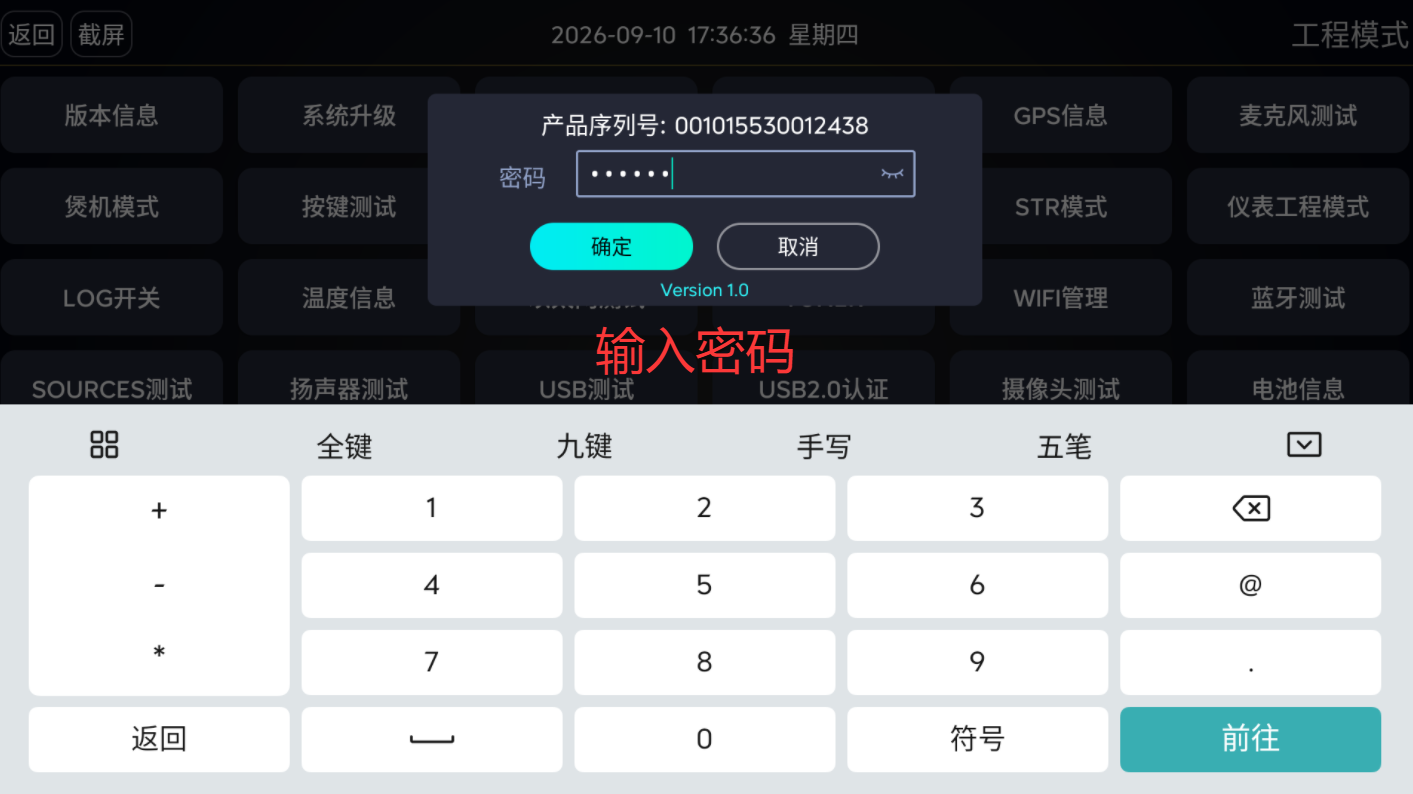
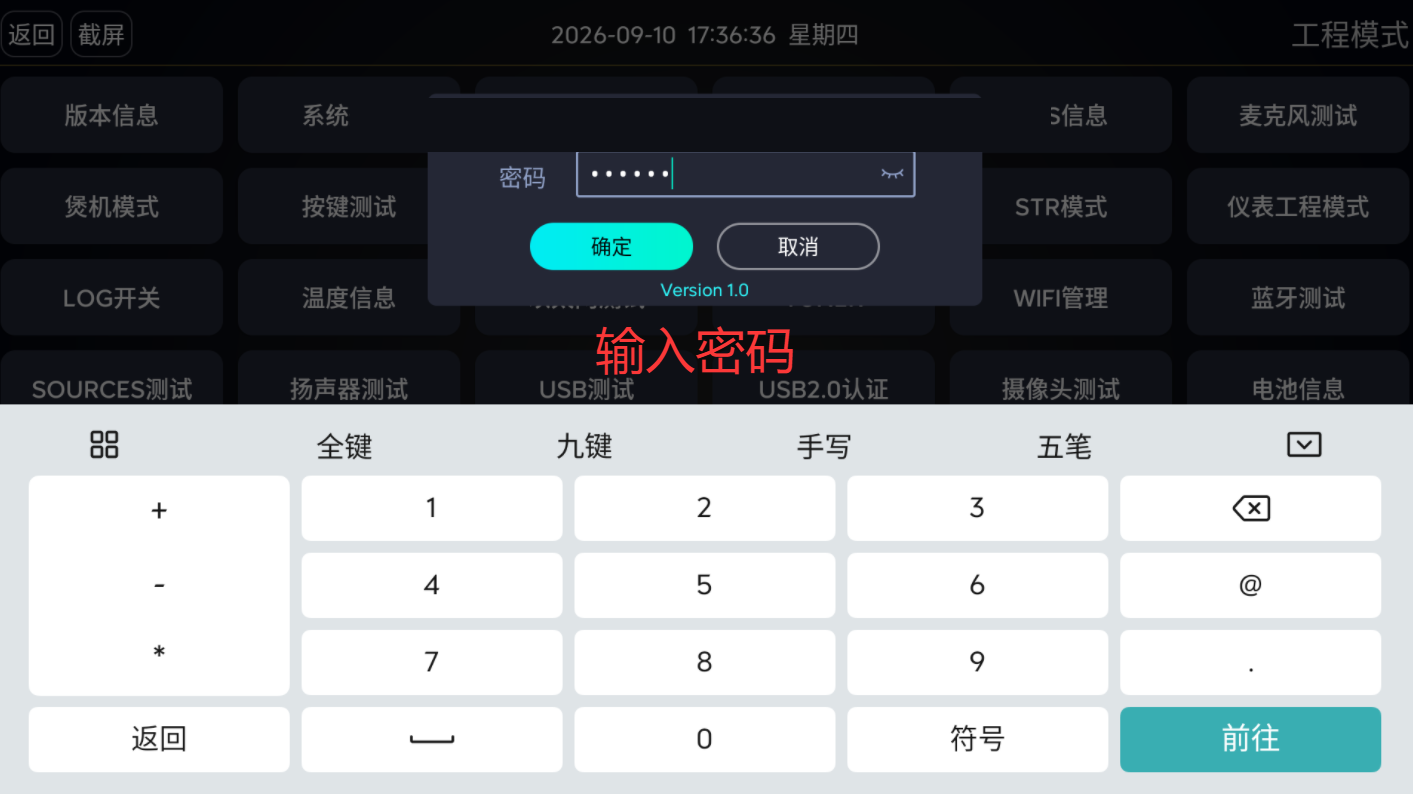
隐藏step3序列号,修改密码说明,新增电脑远程安装教程

Changed region(s): [[0.2491, 0.1209, 0.7473, 0.2116]]

diff --git a/tutorial.html b/tutorial.html
@@ -275,12 +275,12 @@ footer .copy{font-size:clamp(11px, 1.7vw, 12px);color:var(--ink-4)}
       <div class="step-num">3</div>
       <div class="step-text">
         <h2>输入密码</h2>
-        <p>系统会显示产品序列号，密码为序列号后六位</p>
-        <span class="tip">密码 = 序列号后六位（如 X802018 → 密码 802018）</span>
+        <p>系统会显示产品序列号，将序列号后六位乘以 802018，取结果的后六位作为密码</p>
+        <span class="tip">密码 = 序列号后六位 × 802018 → 取结果后六位</span>
       </div>
     </div>
     <div class="step-img">
-      <img src="docs/step3.png" alt="第三步：输入密码，密码为序列号后六位">
+      <img src="docs/step3.png" alt="第三步：输入密码，序列号后六位乘802018取结果后六位">
     </div>
   </div>
 </section>
@@ -362,6 +362,41 @@ footer .copy{font-size:clamp(11px, 1.7vw, 12px);color:var(--ink-4)}
             <img src="docs/admin.jpg" alt="联系管理员二维码">
           </div>
           <p>扫码联系管理员获取 U 盘文件</p>
+        </div>
+      </div>
+    </div>
+  </div>
+</section>
+
+<!-- PC Remote Install -->
+<section class="step-section" id="remote">
+  <div class="container">
+    <div class="x70l-section" style="background:#eef2ff;border-color:rgba(79,70,229,0.15)">
+      <div class="x70l-head">
+        <div class="x70l-badge" style="background:linear-gradient(135deg,#6366f1,#2563eb)">🖥</div>
+        <h2>电脑远程安装</h2>
+      </div>
+      <div class="x70l-body">
+        <p>如果你不方便自己操作车机安装，可以联系管理员通过远程方式帮你安装。</p>
+        <p style="font-weight:600;color:var(--ink-2);margin-top:8px">步骤：</p>
+        <p>1. 在电脑上下载安装 ToDesk 远程软件</p>
+        <p>2. 打开 ToDesk，将你的设备代码和密码发给管理员</p>
+        <p>3. 管理员远程连接后帮你完成安装</p>
+        <div style="margin-top:16px;text-align:center">
+          <a href="https://www.todesk.com/download" target="_blank" rel="noopener" style="display:inline-flex;align-items:center;gap:8px;padding:12px 28px;border-radius:12px;background:linear-gradient(135deg,#6366f1,#2563eb);color:#fff;font-size:14px;font-weight:600;box-shadow:0 6px 20px rgba(79,70,229,0.3);transition:all .25s">
+            <svg viewBox="0 0 24 24" fill="currentColor" style="width:17px;height:17px"><path d="M19 9h-4V5H9v4H5v6h4v4h6v-4h4V9z"/></svg>
+            下载 ToDesk
+          </a>
+        </div>
+        <p style="margin-top:16px;font-size:clamp(12px,1.7vw,13px);color:var(--ink-4)">支持 Windows / macOS / Linux，个人版免费使用</p>
+        <div style="margin-top:20px;padding:14px 18px;background:rgba(79,70,229,0.06);border-radius:10px;font-size:clamp(13px,1.9vw,14px);color:var(--ink-3);line-height:1.8">
+          安装好 ToDesk 后，扫码联系管理员，把你的 ToDesk 设备代码和密码发给管理员即可。
+        </div>
+        <div class="x70l-qr" style="margin-top:20px">
+          <div class="qr-box">
+            <img src="docs/admin.jpg" alt="联系管理员二维码">
+          </div>
+          <p>扫码联系管理员进行远程安装</p>
         </div>
       </div>
     </div>
